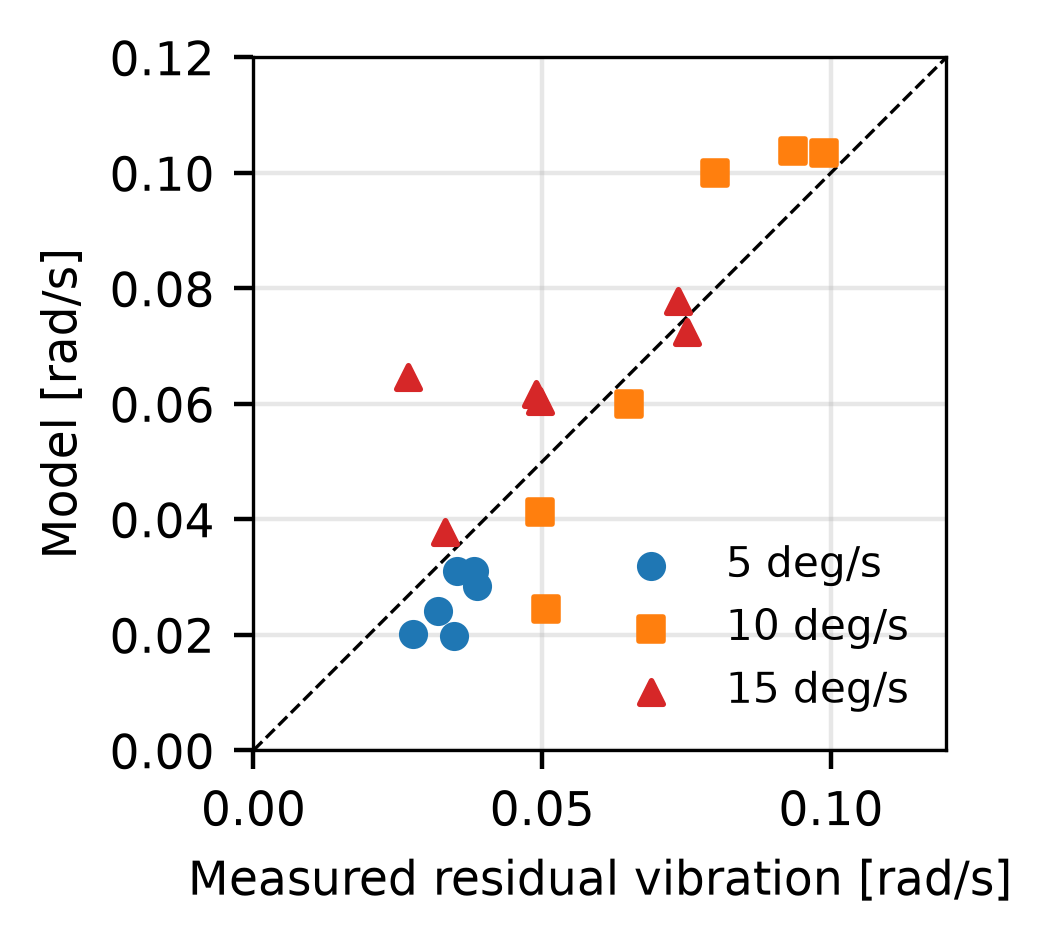
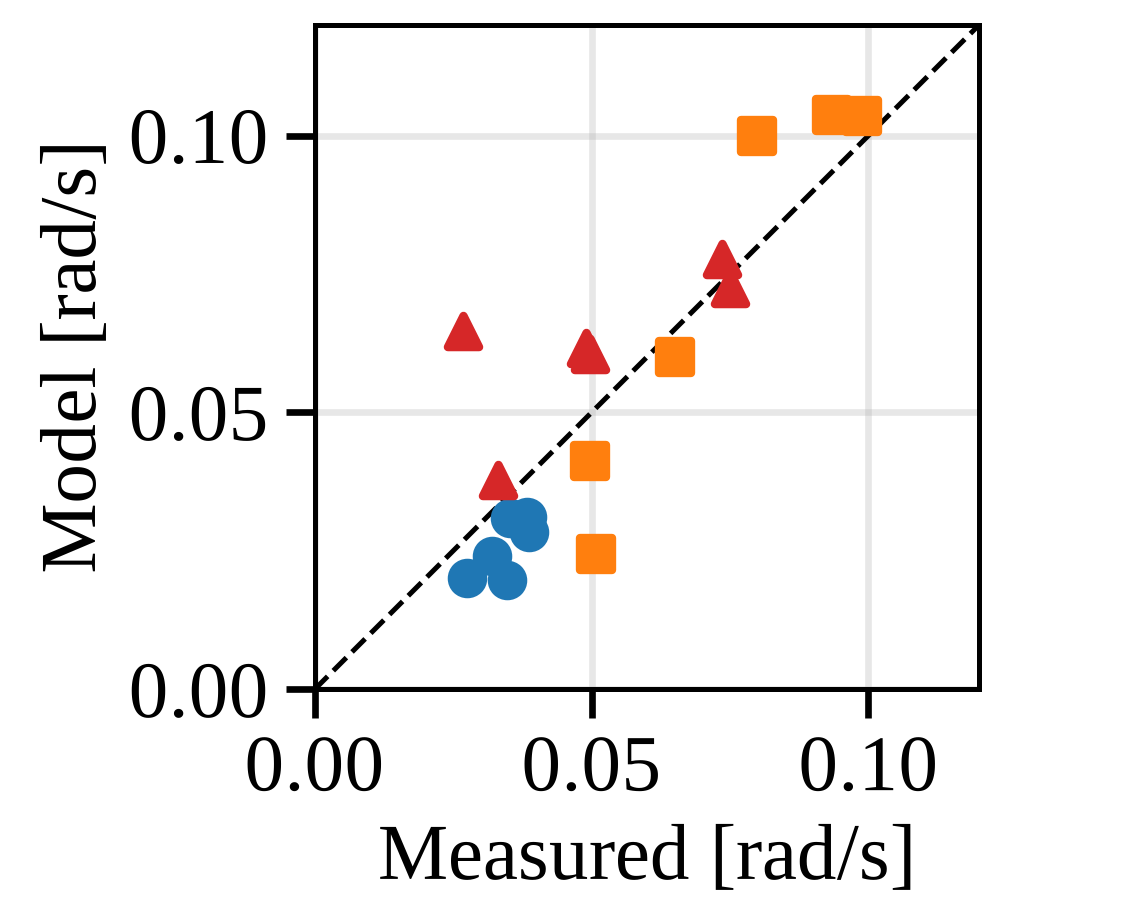
vib_sim: KRoC 그림을 원고에 넣는 크기 그대로(48·80 mm), 글자 9.5 pt·600 dpi로 다시 그림

Changed region(s): [[0.0304, 0.0, 0.9743, 0.9729], [0.3654, 0.3344, 0.4263, 0.4256], [0.7307, 0.2128, 0.7612, 0.2432]]

diff --git a/vib_sim/fig_kroc.py b/vib_sim/fig_kroc.py
@@ -1,4 +1,4 @@
-"""KRoC 양식용 그림(1단 폭 80 mm, 300 dpi 이상·1000 픽셀 이상, 글자 9 pt 안팎, 캡션은 영어).
+"""KRoC 양식용 그림(300 dpi 이상·1000 픽셀 이상, 그림 안 글자는 본문과 같은 9.5 pt, 캡션은 영어). 원고에 넣는 크기 그대로 만든다: Fig. 1은 48 mm, Fig. 2는 80 mm 폭.
 실행: ~/nonmoon/.venv_pptx/bin/python fig_kroc.py  →  figs/kroc_fig1.png, figs/kroc_fig2.png
 입력: out/exp3_replay_c1.csv, out/exp6_tk5_s{1,2,3}_{pos,pd,asmc3}.csv, out/exp6_tk5r_s{1,2,3}_asmc3.csv"""
 import csv, os
@@ -7,39 +7,41 @@ import matplotlib
 matplotlib.use("Agg")
 import matplotlib.pyplot as plt
 H = os.path.dirname(os.path.abspath(__file__)); O = H + "/out"; CAM = 1.27
-plt.rcParams.update({"font.size": 8.5, "font.family": "DejaVu Sans", "axes.grid": True, "grid.alpha": 0.3, "savefig.dpi": 400, "savefig.bbox": "tight", "axes.linewidth": 0.6})
+# KRoC 양식: 그림 안 글자는 본문과 같은 9.5 pt, 300 dpi 이상·1,000 픽셀 이상.
+# 그림을 "원고에 넣는 크기 그대로" 만든다(W1·W2 mm) — 넣을 때 줄이거나 키우면 글자 크기가 달라진다. 글꼴은 Times New Roman과 폭이 같은 Liberation Serif.
+W1, H1, W2, H2, DPI = 48.0, 39.0, 80.0, 50.0, 600
+MM = 1 / 25.4
+plt.rcParams.update({"font.size": 9.5, "font.family": "Liberation Serif", "mathtext.fontset": "stix", "axes.labelsize": 9.5, "xtick.labelsize": 9.5, "ytick.labelsize": 9.5, "legend.fontsize": 9.5,
+                     "axes.grid": True, "grid.alpha": 0.3, "axes.linewidth": 0.6, "xtick.major.pad": 2, "ytick.major.pad": 2, "axes.labelpad": 2})
 
-def band(x, fs, lo, hi):
-    n = len(x); tt = np.arange(n); x = x - np.polyval(np.polyfit(tt, x, 1), tt)
-    X = np.fft.rfft(x); f = np.fft.rfftfreq(n, 1 / fs); X[(f < lo) | (f > hi)] = 0
-    return np.fft.irfft(X, n)
-
-# ---- Fig. 1: 실측 대 모형(엔코더 재생), 18조건 ----
+# ---- Fig. 1: 실측 대 모형(엔코더 재생), 18조건. 표식의 뜻은 캡션에 적는다(5: 원, 10: 네모, 15 deg/s: 세모) ----
 rows = list(csv.DictReader(open(O + "/exp3_replay_c1.csv")))
-fig, ax = plt.subplots(figsize=(3.15, 2.25))
+fig, ax = plt.subplots(figsize=(W1 * MM, H1 * MM), layout="constrained")
 for v, c, m in ((5, "#1f77b4", "o"), (10, "#ff7f0e", "s"), (15, "#d62728", "^")):
     r = [x for x in rows if float(x["cond"].split("_v")[1].split("_")[0]) == v]
-    ax.scatter([float(x["real_gyro_rms"]) for x in r], [float(x["stop_pitch_5_10"]) * CAM for x in r], s=18, color=c, marker=m, label=f"{v} deg/s", zorder=3)
-lim = 0.12; ax.plot([0, lim], [0, lim], "k--", lw=0.6); ax.set_xlim(0, lim); ax.set_ylim(0, lim); ax.set_aspect("equal")
-ax.set_xlabel("Measured residual vibration [rad/s]"); ax.set_ylabel("Model [rad/s]"); ax.legend(frameon=False, fontsize=7.5, loc="lower right")
-fig.savefig(H + "/figs/kroc_fig1.png"); plt.close(fig)
+    ax.scatter([float(x["real_gyro_rms"]) for x in r], [float(x["stop_pitch_5_10"]) * CAM for x in r], s=14, color=c, marker=m, zorder=3)
+lim = 0.12; ax.plot([0, lim], [0, lim], "k--", lw=0.6); ax.set_xlim(0, lim); ax.set_ylim(0, lim); ax.set_aspect("equal"); ax.set_xticks([0, 0.05, 0.1]); ax.set_yticks([0, 0.05, 0.1])
+ax.set_xlabel("Measured [rad/s]"); ax.set_ylabel("Model [rad/s]")
+fig.savefig(H + "/figs/kroc_fig1.png", dpi=DPI); plt.close(fig)
 
-# ---- Fig. 2 (v4, MIT 기준): 종합 장면(팔 동작 + 베이스 출발 → 턱 → 정지) — (a) 궤적 오차, (b) 흔들림 ----
+# ---- Fig. 2 (토크 제어 모드 기준): 종합 장면(팔 동작 + 베이스 출발 → 턱 → 정지) — (a) 궤적 오차, (b) 흔들림 ----
 # 앞선 판(위치 모드 기록 재생, 시간 파형 + 막대)은 figs/kroc_fig2_v3.png로 남겼다.
 def L(tag): return {r["case"]: r for r in csv.DictReader(open(O + f"/exp6_{tag}.csv"))}
-LAY = "bz+prevzE10+ff10+dampRJ"; w = 0.2
-fig, ax = plt.subplots(2, 1, figsize=(3.15, 3.25), gridspec_kw={"hspace": 1.12})
-A = [("pos", "none", "Position control", "#999999"), ("pd", "none", "Torque mode, built-in PD only", "#f0b27a"), ("asmc3", "none", "Torque mode + tracking control", "#5b9bd5"), ("asmc3", LAY, "  + shaping + rear-wheel pred. + FB", "#1f4e79")]
+LAY = "bz+prevzE10+ff10+dampRJ"
+COL = {"Position": "#999999", "Torque, PD": "#f0b27a", "+ tracking": "#5b9bd5", "+ base layers": "#1f4e79", "Arm only": "#d9d9d9"}
+fig, ax = plt.subplots(1, 2, figsize=(W2 * MM, H2 * MM), layout="constrained")
+A = [("pos", "none", "Position"), ("pd", "none", "Torque, PD"), ("asmc3", "none", "+ tracking"), ("asmc3", LAY, "+ base layers")]
 for i, n in enumerate("123"):
-    for k, (m, c, lab, col) in enumerate(A):
-        ax[0].bar(i + (k - 1.5) * w, float(L(f"tk5_s{n}_{m}")[c]["tip_err_mm"]), w, color=col, label=lab if i == 0 else None, zorder=3)
-ax[0].set_ylabel("Path error rms [mm]"); ax[0].text(0.01, 0.88, "(a)", transform=ax[0].transAxes, fontsize=8.5)
-B = [("r", "none", "Arm motion only (base at rest)", "#bbbbbb"), ("", "none", "Base moving, no base-side control", "#555555"), ("", LAY, "Shaping + rear-wheel pred. + FB", "#1f4e79")]
+    for k, (m, c, lab) in enumerate(A):
+        ax[0].bar(i + (k - 1.5) * 0.2, float(L(f"tk5_s{n}_{m}")[c]["tip_err_mm"]), 0.2, color=COL[lab], zorder=3)
+B = [("r", "none", "Arm only"), ("", "none", "+ tracking"), ("", LAY, "+ base layers")]
 for i, n in enumerate("123"):
-    for k, (r_, c, lab, col) in enumerate(B):
-        ax[1].bar(i + (k - 1) * w * 1.2, float(L(f"tk5{r_}_s{n}_asmc3")[c]["tip_vib_mm"]), w * 1.2, color=col, label=lab if i == 0 else None, zorder=3)
-ax[1].set_ylabel("Deviation 2-20 Hz [mm]"); ax[1].text(0.01, 0.88, "(b)", transform=ax[1].transAxes, fontsize=8.5)
-for a_ in ax:
-    a_.set_xticks(range(3)); a_.set_xticklabels(["1 joint", "2 joints", "3 joints"]); a_.grid(axis="x", visible=False)
-    a_.legend(loc="upper center", bbox_to_anchor=(0.5, -0.16), ncol=1, fontsize=6.8, frameon=False, handlelength=1.2, labelspacing=0.2)
-fig.savefig(H + "/figs/kroc_fig2.png"); plt.close(fig); print("ok")
+    for k, (r_, c, lab) in enumerate(B):
+        ax[1].bar(i + (k - 1) * 0.26, float(L(f"tk5{r_}_s{n}_asmc3")[c]["tip_vib_mm"]), 0.26, color=COL[lab], zorder=3)
+ax[0].set_ylabel("Path error [mm]"); ax[1].set_ylabel("Deviation [mm]")
+for a_, t_ in zip(ax, ("(a)", "(b)")):
+    a_.set_xticks(range(3)); a_.set_xticklabels(["1", "2", "3"]); a_.set_xlabel("Moving joints"); a_.grid(axis="x", visible=False)
+    a_.set_title(t_, loc="left", fontsize=9.5, pad=2)
+hd = [plt.Rectangle((0, 0), 1, 1, color=c) for c in COL.values()]
+fig.legend(hd, list(COL.keys()), loc="outside lower center", ncol=3, frameon=False, handlelength=1.0, columnspacing=1.0, labelspacing=0.15, handletextpad=0.4, borderaxespad=0.0)
+fig.savefig(H + "/figs/kroc_fig2.png", dpi=DPI); plt.close(fig); print("ok")
